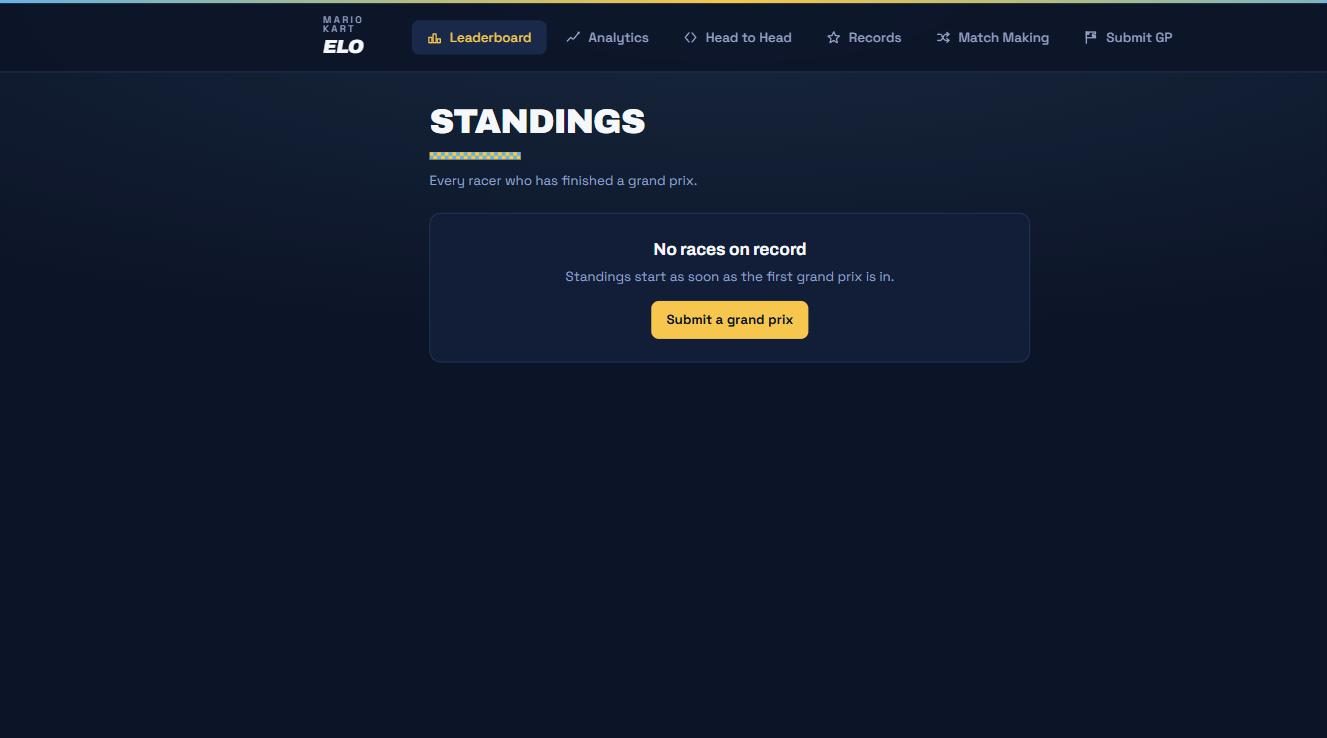
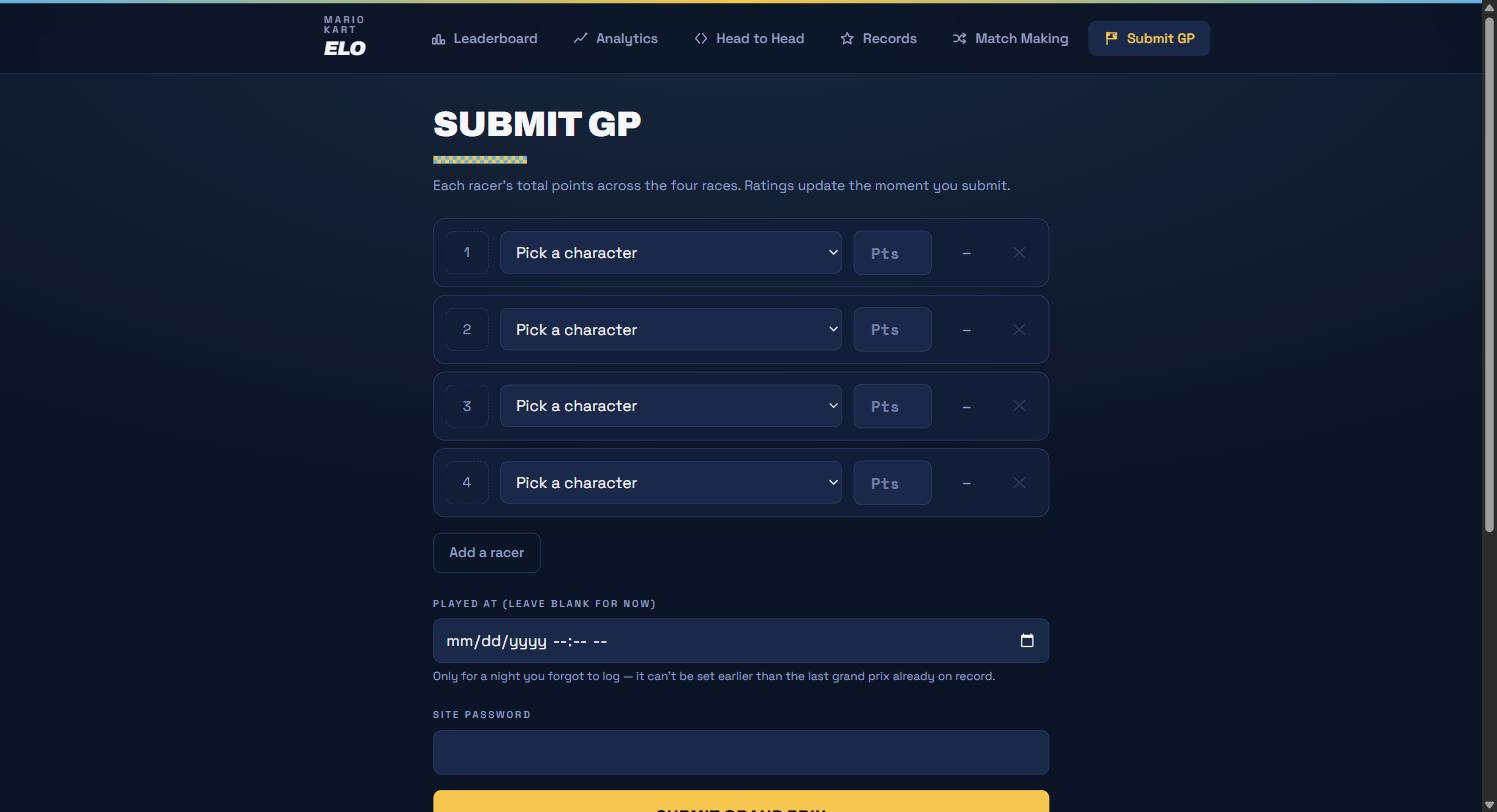
Soccer Experience

diff --git a/src/data/experience.ts b/src/data/experience.ts
@@ -2,6 +2,18 @@ import type { TimelineItem } from "../types/timeline";
 
 export const experience: TimelineItem[] = [
   {
+    id: "villanova-soccer-statistician",
+    title: "Team Statistician",
+    org: "Villanova Men's Soccer",
+    orgLogo: "/Content/villanova.png",
+    location: "Villanova, PA",
+    date: "August 2026 — Present",
+    bullets: [
+      "Built dashboards to track player and match performance metrics for the coaching staff.",
+    ],
+    tags: ["Data Analysis", "Dashboards"],
+  },
+  {
     id: "construct-connect",
     title: "Data Science Intern",
     org: "Construct Connect",
